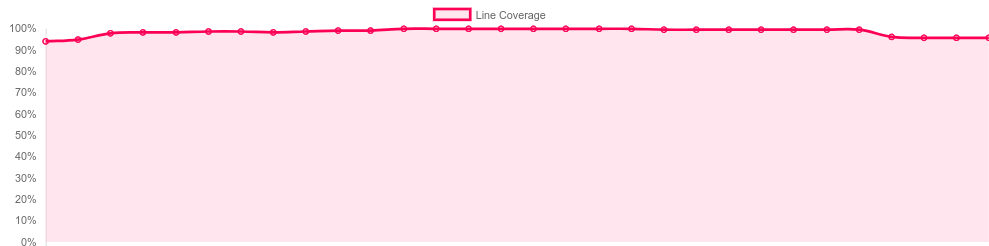
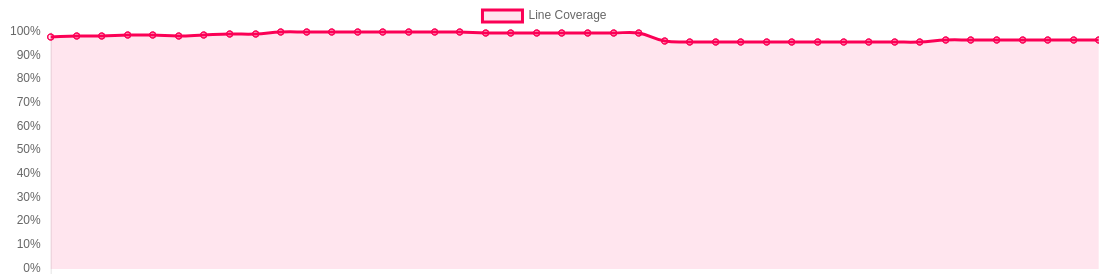
docs: evaluation: Clean up evaluation
Playing a few tricks to get things to fit neatly.

diff --git a/docs/evaluation.md b/docs/evaluation.md
@@ -36,26 +36,26 @@ Also as mentioned in \fref{sec:index-string}, strings can be indexed, but we do 
 own permission kind. This seems easily solvable however.
 
 ## Correctness
-The implementation is _shallow_: When looking at the requirements for operands, it only looks at the base permission of the operands. So if an expression requires an
+The implementation is shallow: When looking at the requirements for operands, it only looks at the base permission of the operands. So, for example, if an expression requires an
 operand to be readable, we only check whether its base permission contains the $r$ bit. That should be fine so far, as we ensure consistency at some point in the program
 by converting each permission to its own base permission, and thus a readable object cannot have unreadable members. But it falls short if we actually want to allow
 it. There might be an option: Instead of checking if $r \in base(A)$ we can check if $ass_{mov}(A, ctb(A, r))$, that is, we create a new structure where all base
 permissions are replaced with $\{r\}$ and then we can check if the value is movable to it, which recursively checks that each base permission is movable to $\{r\}$.
 
-As shown in \fref{sec:address-of}}, taking the address of a pointer does not modify the store, except for the evaluation of the pointer, of course. As mentioned there,
+As shown in \fref{sec:address-of}, taking the address of a pointer does not modify the store, except for the evaluation of the pointer, of course. As mentioned there,
 this is wrong: Taking the address of a pointer should (usually) consume the maximum permission of the owner. Let's look at an example: Let's say we have a variable `a`
 that is `om * om`, and we take a pointer to it: `p = &a` - p is now `om * om * om`. But `a` can be reassigned: `a = a new pointer` and regain its effective permission,
-meaning we now have two usable references to `a`. This happens because assignment checks against the maximum permission, and thus, taking the maximum permission away
+meaning we now have two usable references to `a`. This happens because assignment checks against the maximum  permission (\fref{sec:assign-set-value-max}), and thus, taking the maximum permission away
 instead of the effective permission would solve the issue.
 
 
 ## Preciseness
-The implementation is _coarse_: If I borrow anything uniquely referred to by a variable, then the entire variable is marked as unusable, rather than just the part
+The implementation is coarse: If I borrow anything uniquely referred to by a variable (for example, when freezing it, as in \fref{sec:coarse-part-move}), then the entire variable is marked as unusable, rather than just the part
 of the permission that was borrowed. A solution to this problem would be to collect a path from a variable to an object (like, select field x, select field y), when
 evaluating an expression - then we could create a new permission where the borrowed part is replaced by an unusable permission. But this then leads to the shallowness
 problem mentioned above.
 
-The implementation is _ambiguous_: Permissions for types and values are stored in the same namespace. This is not a real problem, though, as Go ensures that we cannot
+The implementation is ambiguous: Permissions for types and values are stored in the same namespace. This is not a real problem, though, as Go ensures that we cannot
 use type in value contexts and vice versa.
 
 As seen in \fref{sec:visitIdent}, moving a value out of the store also happens for non-linear values. This is overly broad: If a value is not linear, it should be
@@ -96,7 +96,13 @@ The implementation, since the beginning, has been subject to rigorous unit testi
 
 The code coverage chart shows that it started out slightly below 100% line coverage, eventually reaching 100%, only to drop again - when the interpreter started coming together - there are quite a few places in the interpreter code that are unreachable conditions and would require constructing a lot of illegal AST objects to test.
 
+We can also see this in the icicle graph below: The top is the entire project, the next level packages, the lowest level files. The left half is the interpreter (93% coverage), the right half the permission package (100% coverage). The interpreter is split into the interpreter (the big package), the store (the second biggest), and a helper.
+
+![coverage icicle](icicle.pdf)
+
 Unfortunately, the Go tools only provide line coverage, and not branch or path coverage. This is somewhat problematic: For example, if we have an `if` statement without an `else` part, we can test if the if has been taken, but we usually cannot check whether it has not been taken: The if statement would eventually fall out of its block and back into the parent block, and thus all lines are executed.
+
+\clearpage
 
 ### Testing the permissions package
 The permissions package contains the parser and the rules for permissions described in the section _[Permissions for Go](#permissions-for-go)_. Coverage is 100%.
@@ -109,7 +115,7 @@ them.
 In the case of the parser, the tests simply are a map from string in the permission syntax (listing \ref{syntax}) to the permission object that should
 have been parsed:
 
-```go
+```{#lst:testCasesParser .go caption="Parser test cases" frame=tb}
 var testCasesParser = map[string]Permission{
 	"123":     nil, // ...
 	"\xc2":    nil, // incomplete rune at beginning
@@ -117,8 +123,6 @@ var testCasesParser = map[string]Permission{
 	"oe":      nil,
 	"or":      Owned | Read,
     // ... other combinations ...
-	"a":       Any,
-	"on":      Owned,
 	"n":       None,
     "m [":     nil, // ...
 	"m [] a": &SlicePermission{
@@ -149,7 +153,7 @@ the error checking is not represented in additional lines, so there could of cou
 
 There are two slight issues with this specific table: First, a map has no order; and second, the tests have no names. The first is a bit annoying to deal with,
 especially if you have logging to the code being tested, but it is not a real problem: Even if tests fail, the function running the tests executes all of them:
-```go
+```{#lst:TestParser .go caption="Parser test runner" frame=tb}
 func TestParser(t *testing.T) {
 	for input, expected := range testCasesParser {
 		input := input
@@ -168,16 +172,16 @@ so searching for tests that failed is not that easy. Later tests for the interpr
 #### Type mapping
 The type mapper was a rather simple piece of code. It had 100% coverage as well, but it was written with some wrong assumptions. For some background: Basic types, like
 integer types, untyped constant types (untyped int, untyped float, untyped nil) are represented as one `types.Basic` type in Go's `go/types` package, and were thus handled
-by a single case statement in the switch statement switching over the type of the type representation:
+by a single case statement in the switch statement switching over the type of the type representation, as
+seen in listing \ref{lst:NewFromType}.
 
-```go
+
+```{#lst:NewFromType .go caption="NewFromType" float=!hbt frame=tb}
 func (typeMapper TypeMapper) NewFromType(t0 types.Type) (result Permission) {
     // ... insert some code handling recursion by using a map ...
 	switch t := t0.(type) {
 	case *types.Array:
 		return typeMapper.newFromArrayType(t)
-	case *types.Slice:
-		return typeMapper.newFromSliceType(t)
     // ... other cases ...
 	case *types.Basic:
 		return basicPermission  // constant defined elsewhere
@@ -206,8 +210,9 @@ it was tested by this:
 ```
 
 #### Assignability tests
-The tests for assigning were done as a simple quintuplet: Source permission, target permission, result for move, result for reference, result for copy:
-```go
+The tests for assigning were done as a simple quintuplet: Source permission, target permission, result for move, result for reference, result for copy; as the example in listing \ref{lst:testcasesAssignableTo} show.
+
+```{#lst:testcasesAssignableTo .go caption="Test cases for assignability" float=!hbt frame=tb}
 var testcasesAssignableTo = []assignableToTestCase{
 	// Basic types
 	{"om", "om", true, false, true},
@@ -227,29 +232,34 @@ two parameters can be assigned to a function with one parameter, for example. Th
 checking, and hence they are not always handled, and thus not tested.
 
 #### Merge and conversion
-Merge and conversion tests look like this:
+Merge and conversion tests look like this: The type of merge to perform, the two input parameters, the expected output or nil, and an error string (or empty string if no error should occur). For example:
 ```go
 {mergeIntersection, "om * om", "om", nil, "Cannot merge"}
 ```
-The type of merge to perform, the two input parameters, the expected output or nil, and an error string (or empty string if no error should occur).
 
 The tests are fairly similar to the assign tests: Both assignment and `merge and conversions` have their own recursing of the data structures, and thus
 we need to test possible combinations of things like empty lists, non-empty lists, and so on.
 Merge and convert are even safer than assign: They actually check that the length of function parameters are the same, rather than relying on Go doing it
-for them. And thus they also have tests checking that you cannot merge a 2-parameter function to a one parameter function, for example.
+for them. And thus they also have tests checking that you cannot merge a 2-parameter function with a one parameter function, for example.
 
 One thing is special about tests for intersection and union: Since both are commutative, the test runner actually checks each test case in both directions,
-ensuring that $A \cap B = B \cap A$ without twice the number of tests.
+ensuring that $A\ merge_\cap\ B = B\ merge_\cap\ A$ (and the same for $\cup$) (for tested $A, B$) without twice the number of tests.
+
+\clearpage
 
 ### Testing the interpreter package
 The interpreter contains the store and abstract interpreter described in the section entitled _[Static analysis of Go programs](#static-analysis-of-go-programs)_,
-coverage is about 95%.
+coverage is about 93%.
+
+This subsection is split on 3 pages: This page covers the store, the second covers expressions, and the third covers statements.
 
 #### Testing the store
 The store really was some special thing to test. No table driven tests were used here, but rather some testing functions were written. The reason is simple: While
-the other stuff to be tested were single functions with lots of cases; the store is a lot of small functions with few cases per function. For example:
+the other stuff to be tested were single functions with lots of cases; the store is a lot of small functions with few cases per function.
 
-```go
+An example test case for the store is the definition of values, as shown in listing \ref{lst:TestStore_Define}. We simply define a variable, check that the permission is correct, and then redefine it, which should reset the value (since `:=` can both define new variables, but also set existing variables defined in the same block).
+
+```{#lst:TestStore_Define .go caption="Test case for definining values in the store" float=!h frame=tb}
 func TestStore_Define(t *testing.T) {
 	store := NewStore()
 	store, _ = store.Define("a", permission.Mutable)
@@ -269,14 +279,14 @@ func TestStore_Define(t *testing.T) {
 }
 ```
 
-\clearpage
+The store has 100% line coverage, and all error handling is explicit with if statements, so the coverage should be more conclusive here than for the parser, for example, as all error cases need to be explictly tested here to achieve this level of coverage.
 
 #### Abstract expression interpretation
 The expression tests are table-driven again. As we can seen, we check a given expression (or a scenario, which contains a setup code part and an expression part),
 with a name, and a permission for `a`, a permission for `b`, the result permission, the result owner, the result dependencies, and the after state of the `a` and
 `b` permissions in the store.
 
-```go
+```{#lst:testCasesExpr .go caption="Test case for expressions" float=!h frame=tb}
 	testCases := []struct {
 		expr         interface{}		// expression/scenario to test
 		name         string				// name for test case
@@ -303,7 +313,7 @@ with a name, and a permission for `a`, a permission for `b`, the result permissi
 	}
 ```
 
-Every implemented expression is tested, but the coverage is not fully 100%.
+Every implemented expression is tested, but the coverage of each expression is not fully 100%.
 
 \clearpage
 

diff --git a/docs/abstract-interpreter.md b/docs/abstract-interpreter.md
@@ -216,7 +216,7 @@ Explanations for each case:
 2. The permission $F$ is not movable. This is an error case, all later cases require movability.
 3. The target permission is unowned. We are just temporarily borrowing the object, so we keep the owner and dependencies around
 4. We are moving a linear value to a non-linear value.
-   This means we need to "freeze" the value, and any object containing it, that is make them immutable and non-linear.
+   This means we need to "freeze" the value, and any object containing it, that is make them immutable and non-linear.\label{sec:coarse-part-move}
 5. We are doing any other kind of move. Since we handled copying in case 1, this means that we are moving a linear value to a linear value (a non-linear value
    would be copyable). Therefore, the owner and dependencies borrowed for $F$ will be forgotten, ensuring we cannot reach $F$
    via an alias once we moved it to $T$.
@@ -607,7 +607,7 @@ if ann, ok := i.AnnotatedPermissions[ident]; ok {
 }
 ```
 
-Otherwise, when assigning rather than defining, we just set the effective permission to either the maximum permission the variable can hold (if it can be copied to it) or to the RHS permission (limited by the maximum permission, see \fref{sec:store}). The maximum case allows us to add permissions when copying, which is a property copying was designed to have (see \fref{sec:assign}).
+Otherwise, when assigning rather than defining, we just set the effective permission to either the maximum permission the variable can hold (if it can be copied to it) or to the RHS permission (limited by the maximum permission, see \fref{sec:store}). The maximum case allows us to add permissions when copying, which is a property copying was designed to have (see \fref{sec:assign}).\label{sec:assign-set-value-max}
 ```go
 <<set value>>=
 if permission.CopyableTo(rhs, st.GetMaximum(ident.Name)) {
